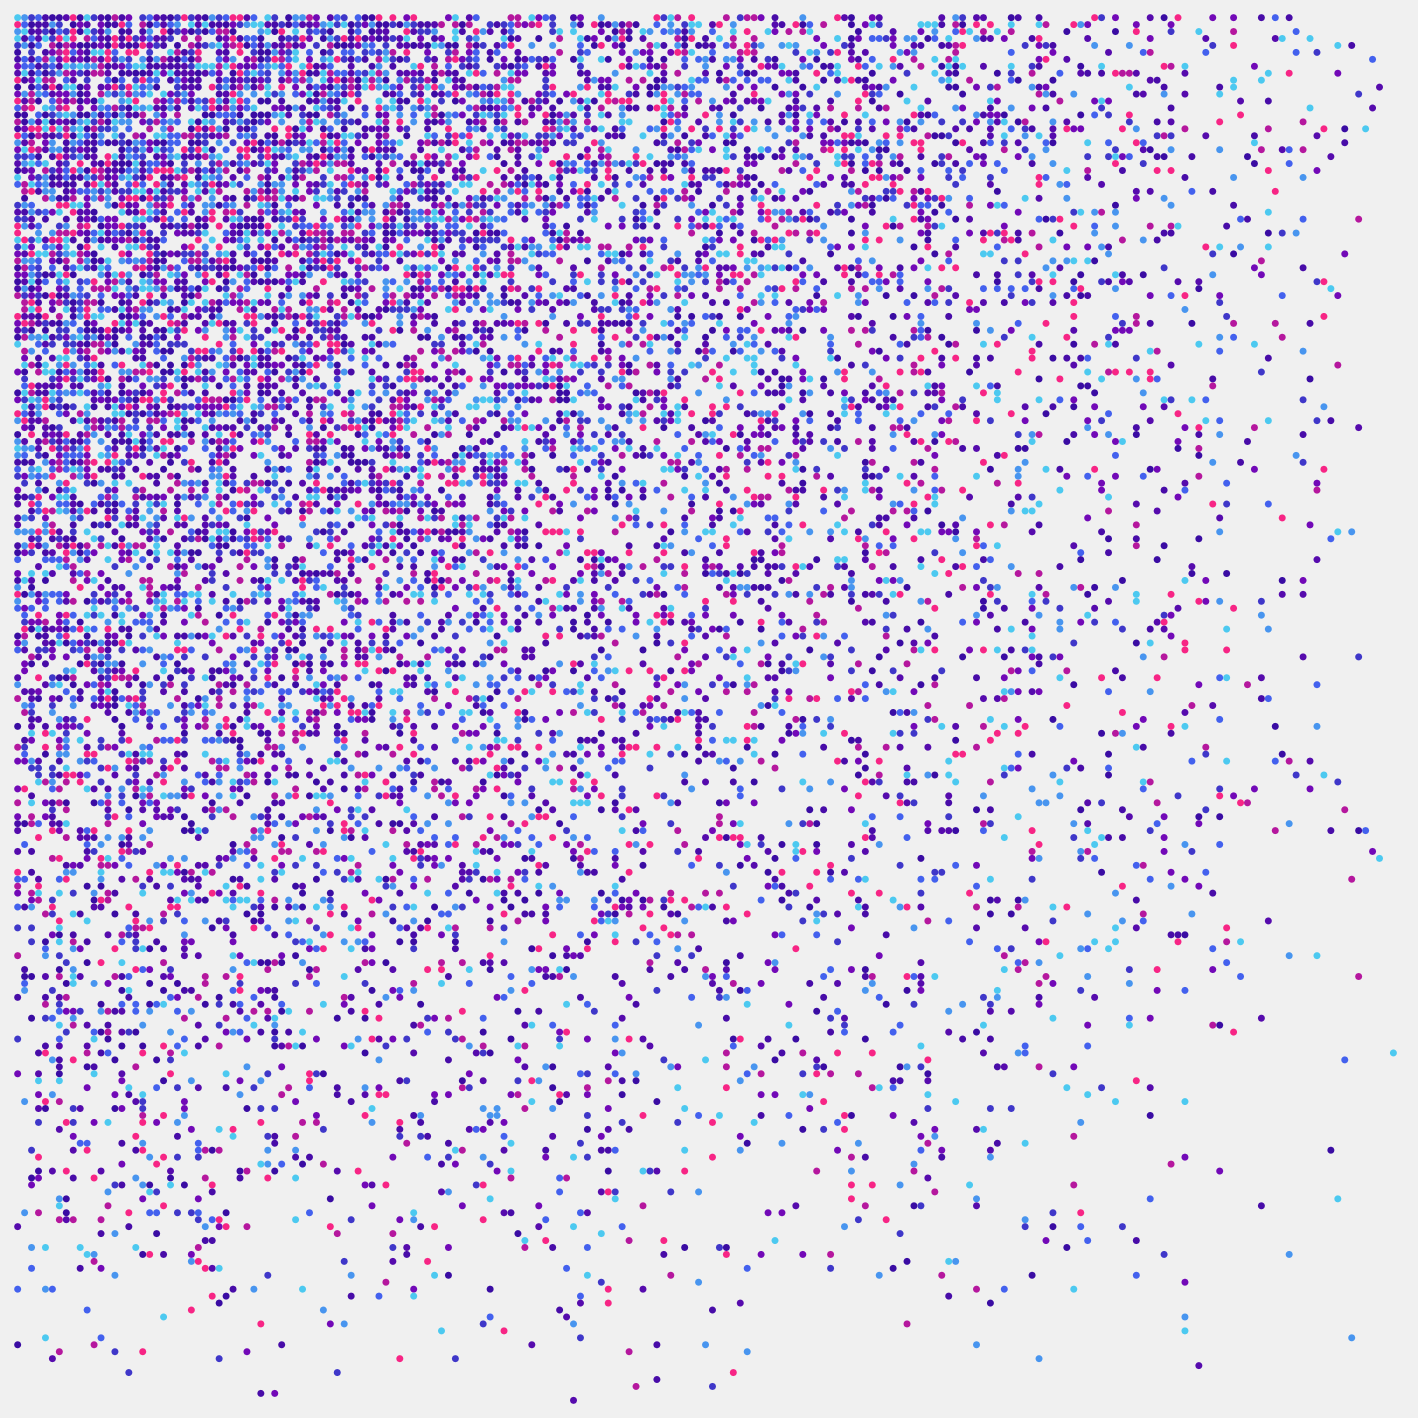
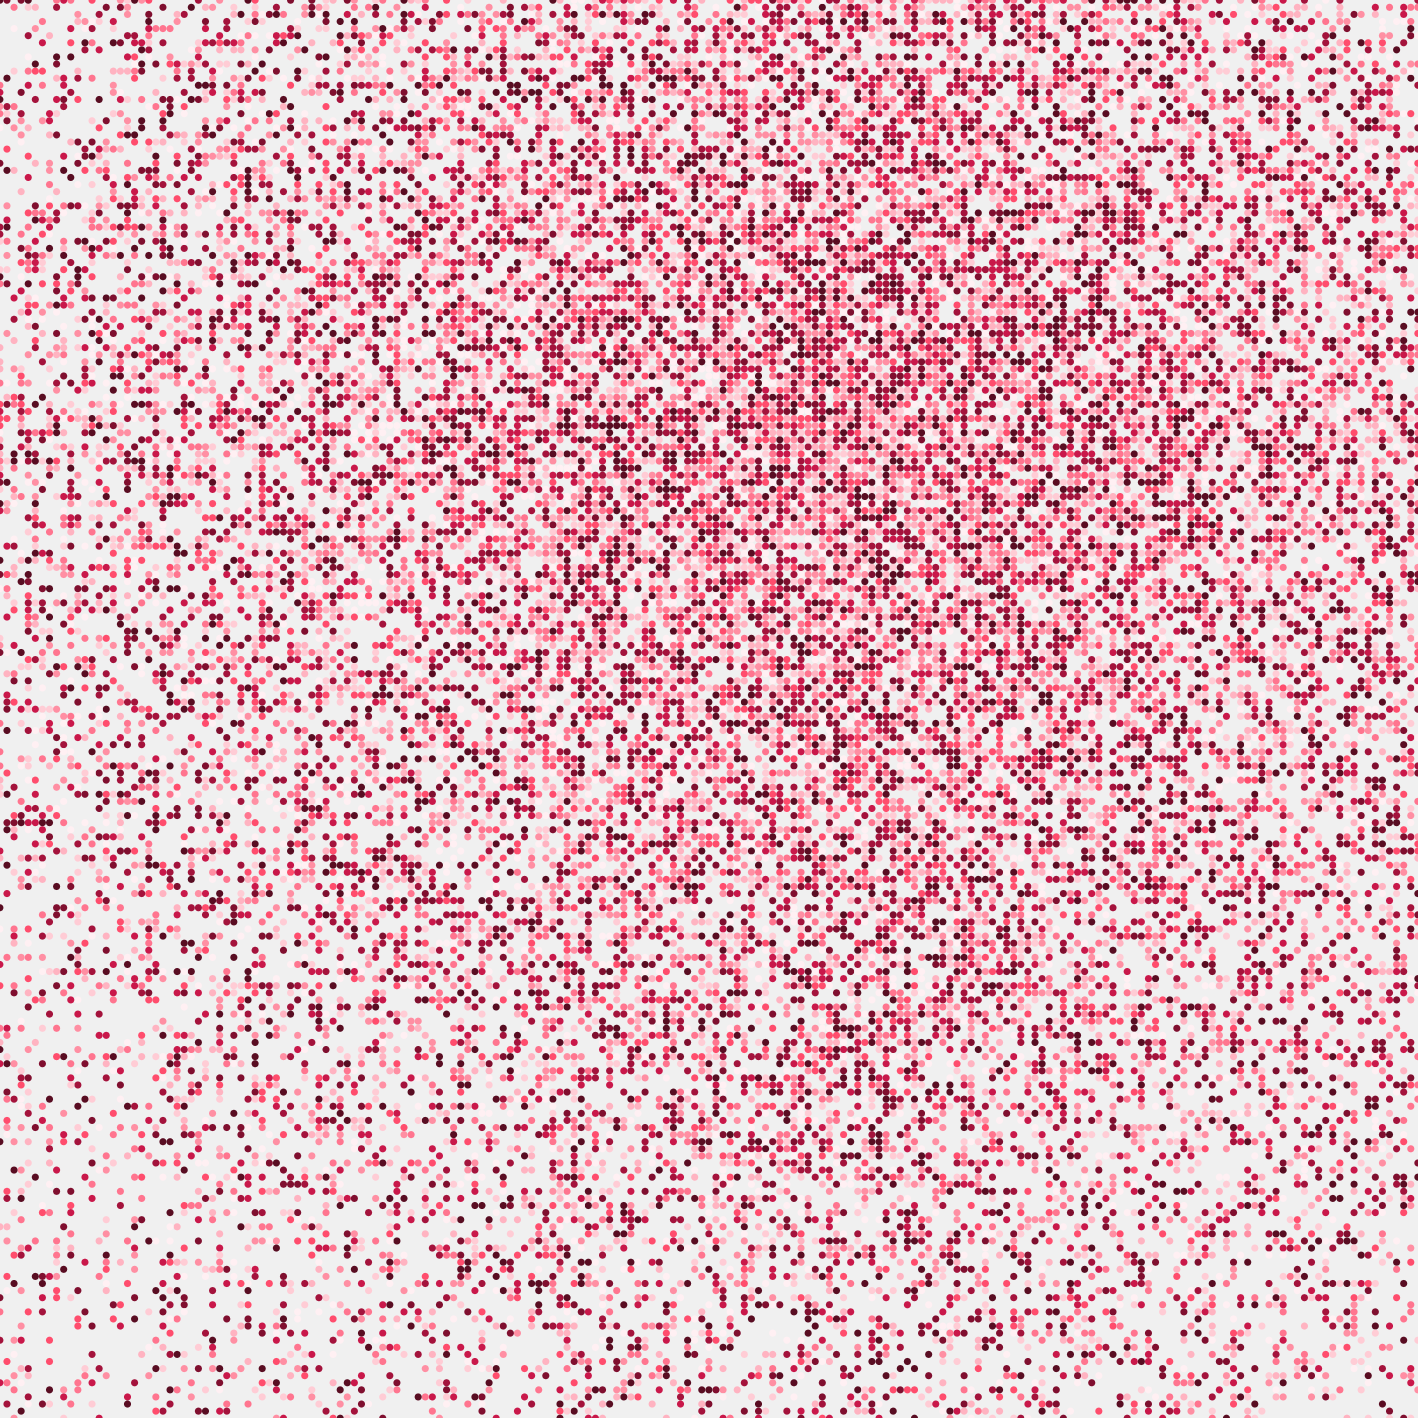
improved 20220101

diff --git a/works/20220101/js/sketch.js b/works/20220101/js/sketch.js
@@ -16,19 +16,24 @@ function setup() {
     noStroke();
 
     let cells = 200;
-    let offset = canvasSize/100;
+    // let offset = canvasSize/100;
+    let offset = 0
     let w = (canvasSize - offset * 2) / cells;
     let h = (canvasSize - offset * 2) / cells;
 
-    for (let i = 0; i < cells; i++){
-        for  (let j = 0; j < cells; j++){
-            let ratioH = random();
-            let ratioV = random();
-            fill(random(colors));
-            if (ratioH > i/cells && ratioV > j/cells){
-                let x = offset+i*w;
-                let y = offset+j*h;
-                ellipse(x+w/2, y+h/2, w);
+    translate(random(canvasSize), random(canvasSize));
+    for (let k = 0; k < 4; k++){
+        rotate(k*PI/2);
+        for (let i = 0; i < cells; i++){
+            for  (let j = 0; j < cells; j++){
+                let ratioH = random();
+                let ratioV = random();
+                fill(random(colors));
+                if (ratioH > i/cells && ratioV > j/cells){
+                    let x = offset+i*w;
+                    let y = offset+j*h;
+                    ellipse(x+w/2, y+h/2, w);
+                }
             }
         }
     }
